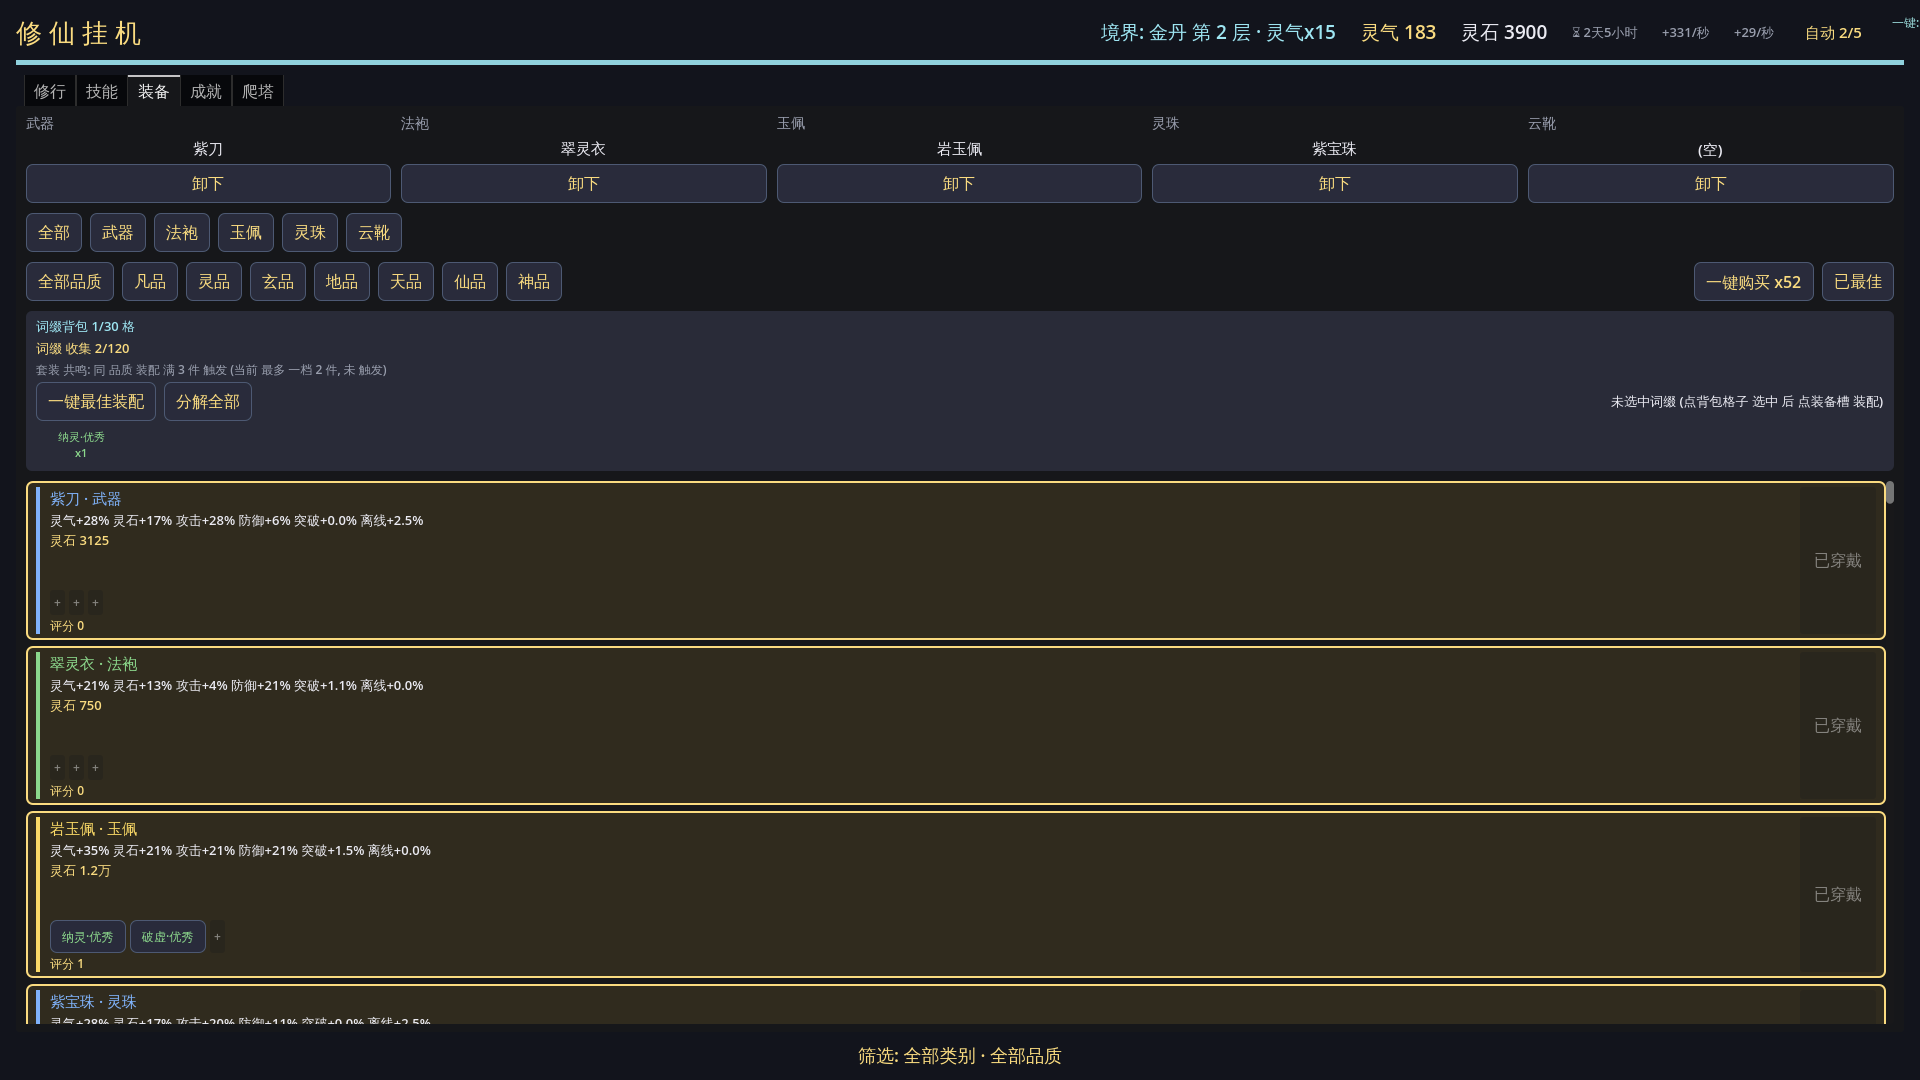
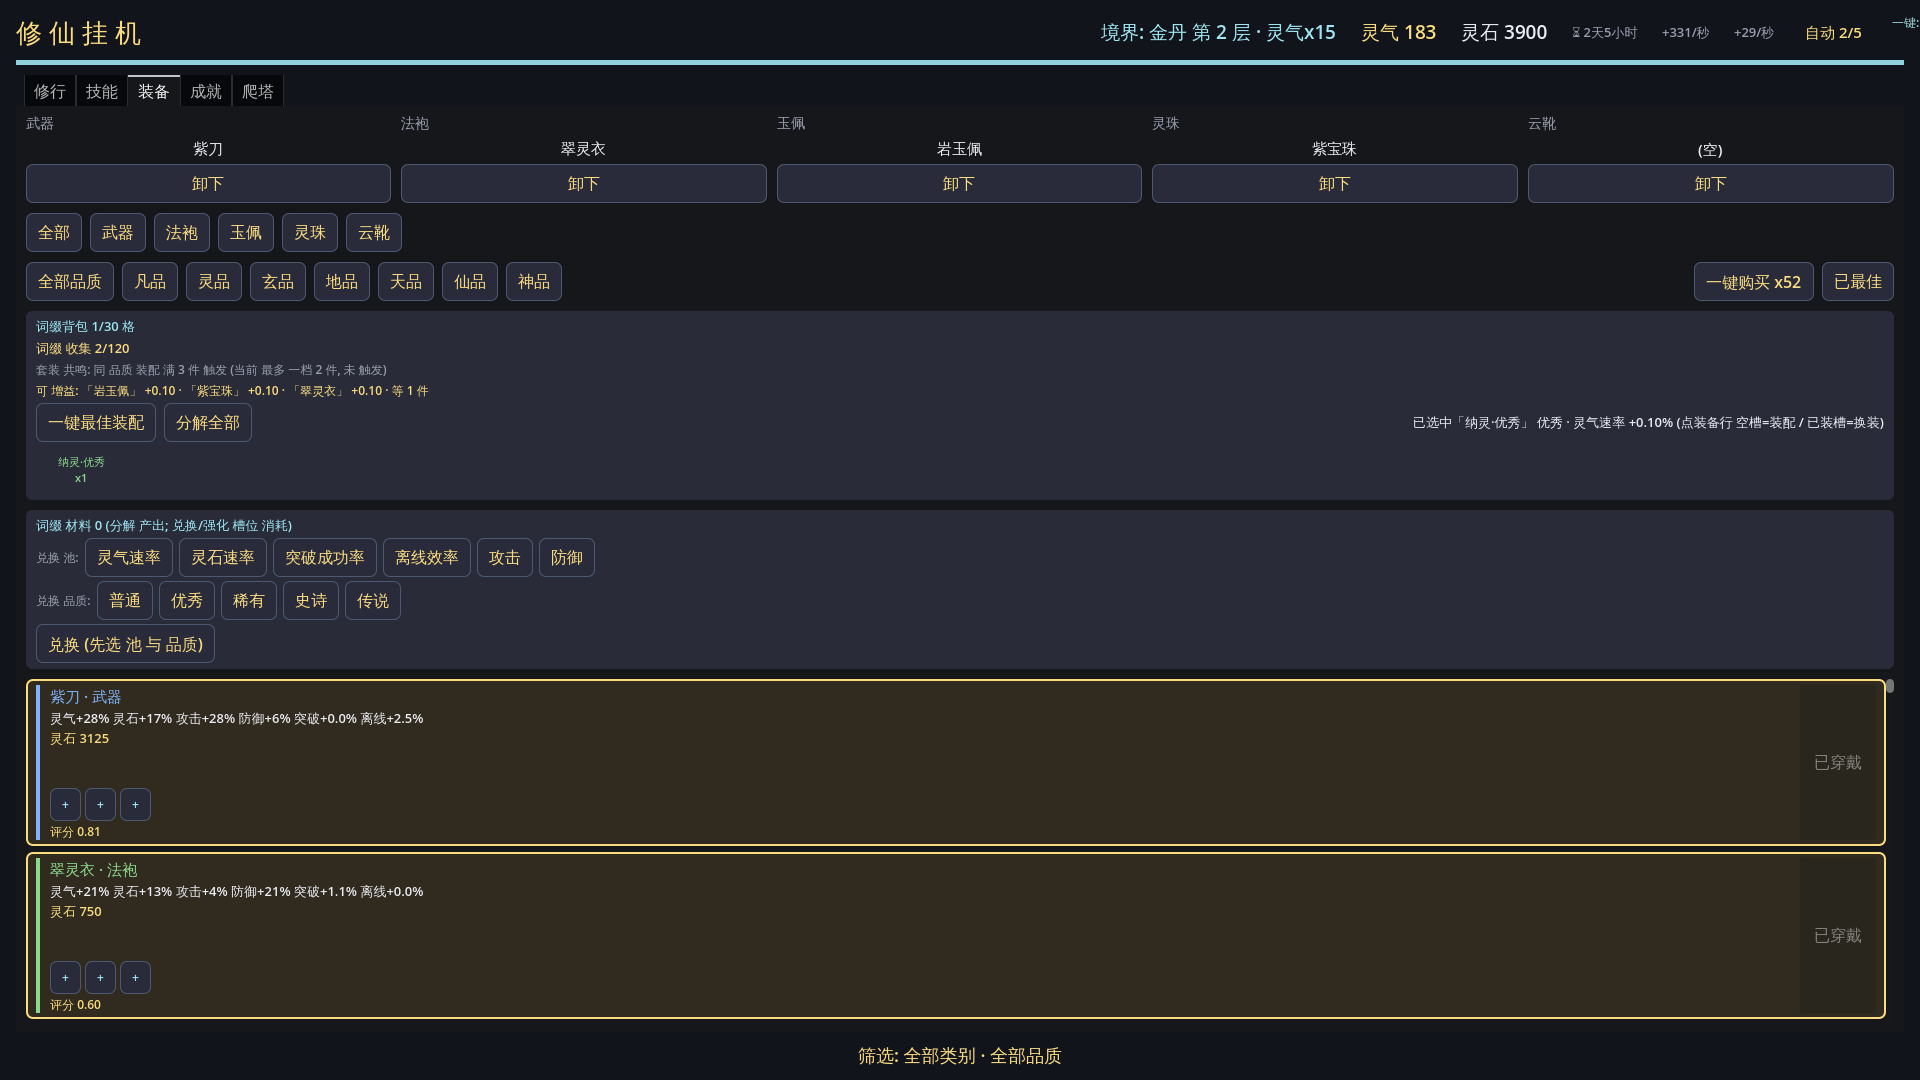
feat: 打磨-98 选中词缀评分Δ实时预览 + 评分小数显示修复 (M6-3 规格缺口: 选中词缀后无跨装备Δ总览, 评分0.14~2.2经fmt截断全显0误导)
- game_data: fmt_score() 评分专用格式化 (<1e4 两位小数, >=1e4 走 fmt 万/亿档)
- game_data: affix_sel_delta_text(affix_id) 只读接口 — 选中词缀对全部拥有装备的最大正增益
  (空槽=词缀value / 已装槽换装=value-槽内value, 负/平不计, 取前3件+等N件汇总, 空串防御)
- 装备行评分/tooltip评分行/装配消息/空槽chip预览 4 处显示位改 fmt_score
- main: 装备页词缀抽屉 共鸣行下金色Δ预览行 (选中且可增益才可见, 文本变化才刷)
- selftest +18 项 = 10430 / ui_test +15 项 = 2200 (连跑3轮确定性) / stress 642 / 主场景冒烟 0 报错
- 商店截图 5 张 Xvfb 重跑 (03 装备页 演示档 选中 纳灵·优秀 展示Δ行)

Changed region(s): [[0.0, 0.3361, 1.0, 0.9472], [0.75, 0.3667, 1.0, 0.3972], [0.1562, 0.3361, 0.2188, 0.3667]]

diff --git a/README.md b/README.md
@@ -60,9 +60,9 @@ PROJECT_PLAN.md          # 项目计划
 
 ```bash
 ~/bin/godot --headless --path .            # 无头冒烟 (应无报错, 会一直挂机运行)
-~/bin/godot --headless --path . -s res://scripts/selftest.gd   # 全流程自测 (学习/购买/穿戴/冷却/存读档/倍率/数值曲线/成就/飞升后道行/装备/技能浮动灵气速率增量/神通爆发预览/一键神通/神通冷却完毕就绪事件/神通冷却进度比例/突破成功率tooltip预期成本/突破失败浮动预期成本/突破成功浮动新境界成功率/离线收益启动金色浮动/自动突破/自动购置/自动施展/自动领悟/自动系列状态汇总/自动系列开关启动提示/顶栏自动系列状态徽标/顶栏自动徽标点击直达/顶栏一键系列状态汇总徽标/一键汇总徽标段悬浮明细/挂机时长顶栏常显/主资源速率顶栏常显/灵石速率顶栏常显/下一目标渐变进度条/挂机时长悬停离线收益预估/自动购置按钮tooltip动态段/自动突破按钮tooltip动态段/自动施展自动领悟按钮tooltip动态段/顶栏主资源行悬停下一目标tooltip/一键挂机/一键挂机按钮tooltip动态段/顶栏挂机状态徽标点击直达/成就页只看未解锁筛选/M5-4镇妖塔通关态(称号+灵石100万+永久atk/def+15%增益, 守塔模式幂等/顶栏称号徽标/存档旧档兜底)/M5-1爬塔数据层(18特性/145怪物/镇妖塔1000层表)/M6-1 DIY装备词缀数据层(120词缀 6池x5品质x4变体+掉落概率表20桶)/M6-2 DIY词缀逻辑层(库存/装配/拆卸/分解/槽位升级/套装共鸣/属性公式接入/塔掉落结算/存档旧档兜底)/M6-3 DIY词缀UI数据层(评分/装配预览/收集成就/一键装配/分解全部/存档seen_affixes)/收集进度一览词缀类(五类+总计419/词缀只增不减)/塔战斗词缀掉落底部消息展示(打磨-94 affix_drop_text)/自动爬塔胜局汇总底部消息+会话统计状态行(打磨-95 auto_tower_last_text)/词缀材料系统(打磨-96 分解产出材料1+品质档/材料兑换指定池品质词缀保底获取/背包满普通自动入料/槽位升级消耗200材料/affix_best_variant_id/存档affix_materials旧档兜底)/背包容量成就解锁(打磨-97 bag_40百宝囊:曾入包满30格容量30->40/bag_expand配置派生态不存档/容量行tooltip动态段/成就进度比例/存档ach_done往返+旧档30兜底), 10412 项, 退出码 0=通过)
+~/bin/godot --headless --path . -s res://scripts/selftest.gd   # 全流程自测 (学习/购买/穿戴/冷却/存读档/倍率/数值曲线/成就/飞升后道行/装备/技能浮动灵气速率增量/神通爆发预览/一键神通/神通冷却完毕就绪事件/神通冷却进度比例/突破成功率tooltip预期成本/突破失败浮动预期成本/突破成功浮动新境界成功率/离线收益启动金色浮动/自动突破/自动购置/自动施展/自动领悟/自动系列状态汇总/自动系列开关启动提示/顶栏自动系列状态徽标/顶栏自动徽标点击直达/顶栏一键系列状态汇总徽标/一键汇总徽标段悬浮明细/挂机时长顶栏常显/主资源速率顶栏常显/灵石速率顶栏常显/下一目标渐变进度条/挂机时长悬停离线收益预估/自动购置按钮tooltip动态段/自动突破按钮tooltip动态段/自动施展自动领悟按钮tooltip动态段/顶栏主资源行悬停下一目标tooltip/一键挂机/一键挂机按钮tooltip动态段/顶栏挂机状态徽标点击直达/成就页只看未解锁筛选/M5-4镇妖塔通关态(称号+灵石100万+永久atk/def+15%增益, 守塔模式幂等/顶栏称号徽标/存档旧档兜底)/M5-1爬塔数据层(18特性/145怪物/镇妖塔1000层表)/M6-1 DIY装备词缀数据层(120词缀 6池x5品质x4变体+掉落概率表20桶)/M6-2 DIY词缀逻辑层(库存/装配/拆卸/分解/槽位升级/套装共鸣/属性公式接入/塔掉落结算/存档旧档兜底)/M6-3 DIY词缀UI数据层(评分/装配预览/收集成就/一键装配/分解全部/存档seen_affixes)/收集进度一览词缀类(五类+总计419/词缀只增不减)/塔战斗词缀掉落底部消息展示(打磨-94 affix_drop_text)/自动爬塔胜局汇总底部消息+会话统计状态行(打磨-95 auto_tower_last_text)/词缀材料系统(打磨-96 分解产出材料1+品质档/材料兑换指定池品质词缀保底获取/背包满普通自动入料/槽位升级消耗200材料/affix_best_variant_id/存档affix_materials旧档兜底)/背包容量成就解锁(打磨-97 bag_40百宝囊:曾入包满30格容量30->40/bag_expand配置派生态不存档/容量行tooltip动态段/成就进度比例/存档ach_done往返+旧档30兜底)/选中词缀评分Δ实时预览+评分小数显示修复(打磨-98 fmt_score<1e4两位小数>=1e4万档/affix_sel_delta_text只读接口:空槽增益与已装槽换装净增益取最大/无正增益与未选中空串/装备取前3件+等N件汇总), 10430 项, 退出码 0=通过)
 ~/bin/godot --headless --path . -s res://scripts/stress_test.gd  # 数值曲线压力测试 (全境界/全品质梯度/解锁门槛一致性/后期溢出检查/M6-4 DIY词缀数值平衡[词缀曲线vs商店装备/满配20槽溢出/共鸣x1.4封顶/成功率离线clamp/掉落桶品质曲线/槽位升级材料扣减(打磨-96)], 642 项, CI 可跑, 退出码 0=通过)
-~/bin/godot --headless --path . res://scenes/ui_test.tscn  # UI 断言 (成就进度条/收集条/品质色/一键系列/顶栏灵石可购进度/灵石行内联下一件可购/法器属性构成/装备/技能浮动灵气速率增量/神通爆发预览/单个神通施展浮动/一键神通/神通冷却完毕就绪浮动/神通冷却进度条/神通冷却完毕收口动画+按钮微光/一键施展浮动爆发总量/单个神通施展浮动爆发总量/冷却完毕就绪浮动爆发总量/突破成功率tooltip预期成本/突破失败浮动预期成本/突破成功浮动新境界成功率/离线收益启动金色浮动/自动突破/自动购置/自动施展/自动领悟/自动系列状态汇总/自动系列汇总行点击直达/自动系列开关启动提示/顶栏自动系列状态徽标/顶栏自动徽标点击直达/顶栏一键系列状态汇总徽标/一键汇总徽标段悬浮明细/挂机时长顶栏常显/主资源速率顶栏常显/灵石速率顶栏常显/下一目标渐变进度条/顶栏进度条点击直达/挂机时长悬停离线收益预估/自动购置按钮tooltip动态段/自动突破按钮tooltip动态段/自动施展自动领悟按钮tooltip动态段/顶栏主资源行悬停下一目标tooltip/一键挂机/一键挂机按钮tooltip动态段/顶栏挂机状态徽标点击直达/成就页只看未解锁筛选/M5-4镇妖塔通关态(称号徽标显隐/tooltip/点击直达爬塔页tab4+镇妖塔卡片金边高亮/未通关不发放/首通发放灵石大奖/守塔幂等/状态行称号)/M6-3 DIY词缀UI(词缀背包抽屉/槽位chips装配拆卸换装/评分行/一键最佳装配/分解全部/选中金边/tooltip评分行)/收集进度一览词缀类(6条mini进度条/总419/词缀点击直达装备页)/塔战斗词缀掉落底部消息展示(打磨-94 胜局boss必掉词缀消息段/败局无段)/自动爬塔胜局汇总底部消息+会话统计状态行(打磨-95 挂机期间胜局静默补位/变更事件节流/会话不持久化)/词缀材料兑换面板(打磨-96 材料行/6池x5品质筛选/兑换按钮文案节流/兑换入包最高价值变体/材料不足与背包满拒绝/toggle取消选中)/背包容量成就解锁UI(打磨-97 容量行30->40动态文案/tooltip未解锁还差N种与已解锁两态/成就解锁ach_done/40满拒绝/节流稳定/收尾回30), scene 模式带 autoload, 2189 项, 退出码 0=通过)
+~/bin/godot --headless --path . res://scenes/ui_test.tscn  # UI 断言 (成就进度条/收集条/品质色/一键系列/顶栏灵石可购进度/灵石行内联下一件可购/法器属性构成/装备/技能浮动灵气速率增量/神通爆发预览/单个神通施展浮动/一键神通/神通冷却完毕就绪浮动/神通冷却进度条/神通冷却完毕收口动画+按钮微光/一键施展浮动爆发总量/单个神通施展浮动爆发总量/冷却完毕就绪浮动爆发总量/突破成功率tooltip预期成本/突破失败浮动预期成本/突破成功浮动新境界成功率/离线收益启动金色浮动/自动突破/自动购置/自动施展/自动领悟/自动系列状态汇总/自动系列汇总行点击直达/自动系列开关启动提示/顶栏自动系列状态徽标/顶栏自动徽标点击直达/顶栏一键系列状态汇总徽标/一键汇总徽标段悬浮明细/挂机时长顶栏常显/主资源速率顶栏常显/灵石速率顶栏常显/下一目标渐变进度条/顶栏进度条点击直达/挂机时长悬停离线收益预估/自动购置按钮tooltip动态段/自动突破按钮tooltip动态段/自动施展自动领悟按钮tooltip动态段/顶栏主资源行悬停下一目标tooltip/一键挂机/一键挂机按钮tooltip动态段/顶栏挂机状态徽标点击直达/成就页只看未解锁筛选/M5-4镇妖塔通关态(称号徽标显隐/tooltip/点击直达爬塔页tab4+镇妖塔卡片金边高亮/未通关不发放/首通发放灵石大奖/守塔幂等/状态行称号)/M6-3 DIY词缀UI(词缀背包抽屉/槽位chips装配拆卸换装/评分行/一键最佳装配/分解全部/选中金边/tooltip评分行)/收集进度一览词缀类(6条mini进度条/总419/词缀点击直达装备页)/塔战斗词缀掉落底部消息展示(打磨-94 胜局boss必掉词缀消息段/败局无段)/自动爬塔胜局汇总底部消息+会话统计状态行(打磨-95 挂机期间胜局静默补位/变更事件节流/会话不持久化)/词缀材料兑换面板(打磨-96 材料行/6池x5品质筛选/兑换按钮文案节流/兑换入包最高价值变体/材料不足与背包满拒绝/toggle取消选中)/背包容量成就解锁UI(打磨-97 容量行30->40动态文案/tooltip未解锁还差N种与已解锁两态/成就解锁ach_done/40满拒绝/节流稳定/收尾回30)/选中词缀评分Δ预览行(打磨-98 未选中隐藏/空槽增益/换装取最大/全满换装净增益0.094精确/全平负隐藏/节流/只读无副作用/评分断言fmt_score适配), scene 模式带 autoload, 2200 项, 退出码 0=通过)
 ```
 
 ## 导出 (打包)
